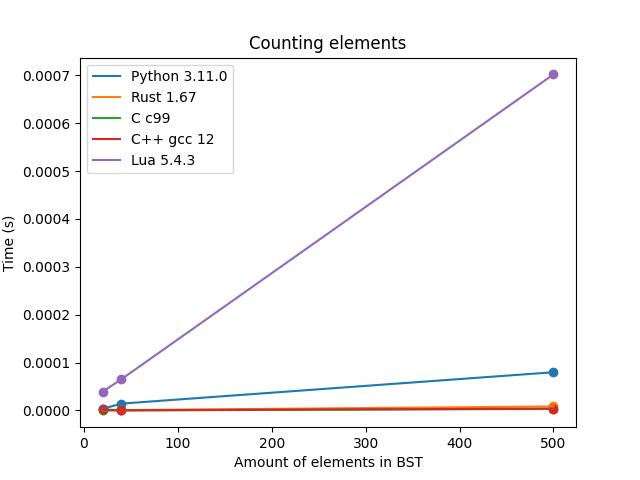
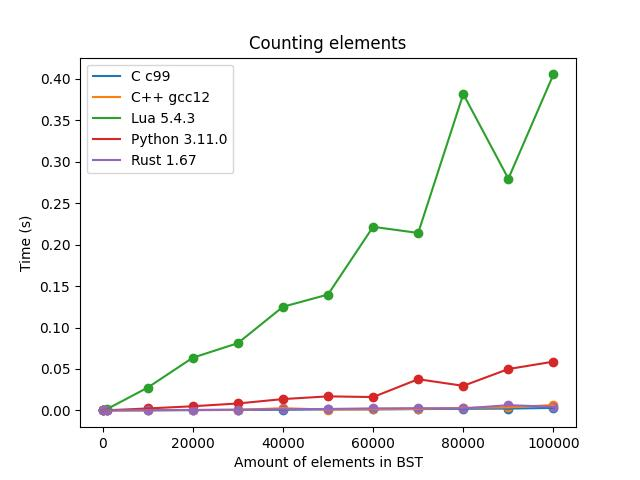
Added web app

diff --git a/web_app.js b/web_app.js
@@ -1,0 +1,83 @@
+function transformData(data, mode) {
+    return Object.keys(data).map(langKey => ({
+        label: langKey,
+        cubicInterpolationMode: 'monotone',
+        data: Object.keys(data[langKey]).map(amountKey => ({
+            x: Number(amountKey),
+            y: Number(data[langKey][amountKey][mode])
+        })).sort((a, b) => a.x - b.x)
+    }));
+}
+
+let charts = [];
+
+
+function createPlot(element_id, title, mode) {
+    fetch('results.json')
+        .then(response => response.json())
+        .then(data => {
+            const ctx = document.getElementById(element_id).getContext('2d');
+            const datasets = transformData(data, mode);
+            const lineChart = new Chart(ctx, {
+                type: 'line',
+                data: {
+                    datasets: datasets
+                },
+                options: {
+                    plugins: {
+                        legend: {
+                            onClick: function (e, legendItem) {
+                                const index = legendItem.datasetIndex;
+                                const ci = this.chart;
+
+                                // Toggle the visibility of this dataset
+                                ci.getDatasetMeta(index).hidden = ci.isDatasetVisible(index) ? true : false;
+
+                                // Now loop over the other charts and do the same
+                                charts.forEach((chart) => {
+                                    if (chart !== ci) {
+                                        const otherMeta = chart.getDatasetMeta(index);
+                                        otherMeta.hidden = ci.getDatasetMeta(index).hidden;
+                                        chart.update();
+                                    }
+                                });
+                                ci.update();
+                            },
+                        },
+                        title: {
+                            display: true,
+                            text: title,
+                        },
+                    },
+                    interaction: {
+                        intersect: false,
+                        mode: 'index',
+                    },
+                    scales: {
+                        x: {
+                            title: {
+                                display: true,
+                                text: 'Amount of elements'
+                            },
+                            beginAtZero: true,
+                            type: 'linear',
+                        },
+                        y: {
+                            title: {
+                                display: true,
+                                text: "Time (s)",
+                            },
+                            beginAtZero: true,
+                        }
+                    }
+                }
+            });
+            charts.push(lineChart);
+        });
+}
+
+createPlot('addingChart', 'Adding elements to BST', "add");
+createPlot('checkingChart', 'Checking elements in BST', "check");
+createPlot('lenChart', 'Counting elements in BST', "len");
+createPlot('heightChart', 'Counting height of BST', "height");
+

diff --git a/index.html b/index.html
@@ -1,0 +1,18 @@
+<!DOCTYPE html>
+<html>
+
+<head>
+    <title>Scatter Plot</title>
+    <script src="https://cdn.jsdelivr.net/npm/chart.js"></script>
+</head>
+
+<body>
+    <canvas id="addingChart"></canvas>
+    <canvas id="checkingChart"></canvas>
+    <canvas id="lenChart"></canvas>
+    <canvas id="heightChart"></canvas>
+
+    <script src="web_app.js"></script>
+</body>
+
+</html>

diff --git a/app/result.py b/app/result.py
@@ -1,8 +1,10 @@
-from dataclasses import dataclass
-from typing import Callable, List, Dict
+from dataclasses import dataclass, asdict
+from typing import Callable, List, Dict, Any
 from collections import defaultdict
 import matplotlib.pyplot as plt
 from logger import logger
+import json
+
 
 class ResultValidation(Exception):
     pass
@@ -21,6 +23,14 @@ class Result:
     # def __post_init__(self) -> None:
     #     if self.validation != ("5000000", "57"):
     #         raise ResultValidation(F"Current validation is {self.validation}")
+
+    def asdict(self) -> Dict[str, Any]:
+        return asdict(self)
+
+    @property
+    def has_none(self):
+        return any([key is None for key in [self.add, self.check, self.len, self.height, self.validation]])
+
 
     @staticmethod
     def FROM_RESULT(name:str, amount:int, result: str) -> "Result":
@@ -41,7 +51,7 @@ class Result:
             if "VALIDATION" in line:
                 val = (int(line.split(":")[1]), int(line.split(":")[2]))
         if any([key is None for key in [add, check, leng, height, val]]):
-            logger.warning(F"Cannot find all keys in {name}:{amount}. Full output:\n{result}")
+            logger.error(F"Cannot find all keys in {name}:{amount}. Full output:\n{result}")
         return Result(name=name,
                       amount=amount,
                       add=add, #type: ignore
@@ -58,10 +68,17 @@ class Result:
         leng = 0.0
         height = 0.0
         for result in results:
+            if result.has_none:
+                res_len -= 1
+                logger.warning(F"Ommiting result in {results[0].name}:{results[0].amount}")
+                continue
             add += result.add
             check += result.check
             leng += result.len
             height += result.height
+        if res_len==1:
+            logger.critical(f"Cannot get average result for {results[0].name}:{results[0].amount}")
+            raise ResultValidation(f"Cannot get average result for {results[0].name}:{results[0].amount}")
         return Result(
             name = results[0].name,
             amount = results[0].amount,
@@ -80,9 +97,9 @@ class ResultCollection:
             temp_data[result.name][result.amount].append(result)
         
         self.data = defaultdict(lambda: {})
-        for name in temp_data.keys():
-            for amount, results in temp_data[name].items():
-                self.data[name][amount] = Result.FROM_AVG(results)
+        for name in sorted(temp_data.keys()):
+            for amount in sorted(temp_data[name].keys()):
+                self.data[name][amount] = Result.FROM_AVG(temp_data[name][amount])
 
     def _plot(self, title: str, picture_name:str, result_func: Callable) -> None:
         for key, values in self.data.items():
@@ -116,6 +133,16 @@ class ResultCollection:
         self.plot_check()
         self.plot_height()
         self.plot_len()
+
+    def to_json(self)->None:
+        temp_data = {}
+        for name in self.data.keys():
+            temp_data[name] = {}
+            for amount in self.data[name].keys():
+                temp_data[name][amount] = self.data[name][amount].asdict()
+        
+        with open('results.json', 'w') as fp:
+            json.dump(temp_data, fp)
 
 
     

diff --git a/bst_runner.py b/bst_runner.py
@@ -3,6 +3,8 @@ from app import BST, Result, ResultCollection
 from multiprocessing import Pool
 from pprint import pprint
 from logger import logger
+import random
+
 
 class BSTCollection:
     PYTHON = BST("Python 3.11.0", Path("BST/python3/run.sh"))
@@ -31,14 +33,15 @@ def run(bst: BST, amount:int) -> Result:
 def main():
     arg_coll = []
     for bst in BSTCollection.get_all():
-        for amount in [20, 40, 500]:
-            for _ in range(1):
+        for amount in [100, 100_000, 1_000_000, 2_000_000, 3_000_000, 4_000_000, 5_000_000,6_000_000,7_000_000,8_000_000,9_000_000,10_000_000]:
+            for _ in range(3):
                 arg_coll.append((bst, amount))
-
-    with Pool() as pool:
+    random.shuffle(arg_coll)
+    with Pool(processes=7) as pool:
         results = pool.starmap(run, arg_coll)
     results = ResultCollection(results)
     results.plot_all()
+    results.to_json()
     pass
 
 if __name__ == "__main__":

diff --git a/app/bst.py b/app/bst.py
@@ -13,4 +13,6 @@ class BST:
     def run(self, amount=10_000_000) -> Result:
         output = subprocess.run([self.path, str(amount)], text=True, stdout=subprocess.PIPE, stderr=subprocess.PIPE)
         result = output.stdout
+        if output.stderr:
+            logger.warning(F"{self.name} return some warnings:\n{output.stderr}")
         return Result.FROM_RESULT(self.name, amount, result)
